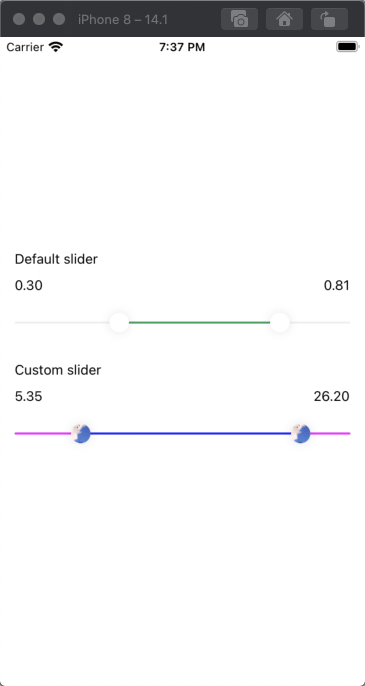
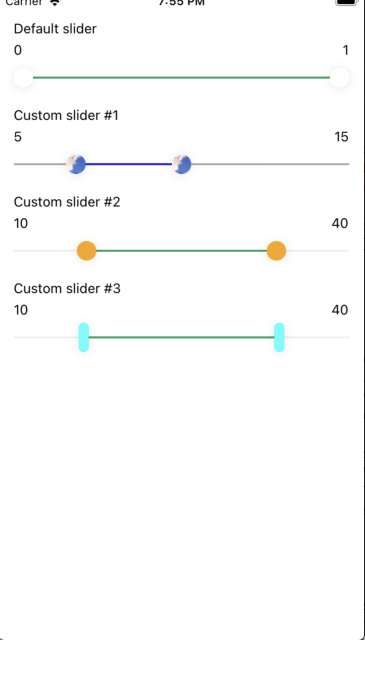
docs: 文档

diff --git a/example/src/App.js b/example/src/App.js
@@ -8,17 +8,52 @@ export default class App extends PureComponent {
     super(props);
 
     this.state = {
-      slider1: {},
-      slider2: {},
+      slider: {
+        minValue: '0',
+        maxValue: '1',
+      },
+      slider1: {
+        minValue: '5',
+        maxValue: '15',
+      },
+      slider2: {
+        minValue: '10',
+        maxValue: '40',
+      },
+      slider3: {
+        minValue: '10',
+        maxValue: '40',
+      },
     };
   }
 
   render() {
-    const { slider1, slider2 } = this.state;
+    const { slider, slider1, slider2, slider3 } = this.state;
     return (
       <View style={styles.container}>
         <View style={styles.box}>
           <Text>Default slider</Text>
+          <View style={styles.valueBox}>
+            <Text>{slider.minValue || ''}</Text>
+            <Text>{slider.maxValue || ''}</Text>
+          </View>
+          <DoubleSlider
+            style={styles.slider}
+            thumbStyle={styles.shadowStyle}
+            minValue={parseInt(slider.minValue, 10)}
+            maxValue={parseInt(slider.maxValue, 10)}
+            onValueChanged={(minValue, maxValue) => {
+              this.setState({
+                slider: {
+                  minValue: Math.min(minValue, maxValue).toFixed(2),
+                  maxValue: Math.max(minValue, maxValue).toFixed(2),
+                },
+              });
+            }}
+          />
+        </View>
+        <View style={styles.box}>
+          <Text>Custom slider #1</Text>
           <View style={styles.valueBox}>
             <Text>{slider1.minValue || ''}</Text>
             <Text>{slider1.maxValue || ''}</Text>
@@ -26,8 +61,13 @@ export default class App extends PureComponent {
           <DoubleSlider
             style={styles.slider}
             thumbStyle={styles.shadowStyle}
-            minValue={0}
-            maxValue={1}
+            minimumValue={0}
+            maximumValue={30}
+            minValue={parseInt(slider1.minValue, 10)}
+            maxValue={parseInt(slider1.maxValue, 10)}
+            thumbImage={require('./images/thumb.jpg')}
+            highlightTrackTintColor="#00f"
+            defaultTrackTintColor="#aaa"
             onValueChanged={(minValue, maxValue) => {
               this.setState({
                 slider1: {
@@ -39,7 +79,7 @@ export default class App extends PureComponent {
           />
         </View>
         <View style={styles.box}>
-          <Text>Custom slider</Text>
+          <Text>Custom slider #2</Text>
           <View style={styles.valueBox}>
             <Text>{slider2.minValue || ''}</Text>
             <Text>{slider2.maxValue || ''}</Text>
@@ -48,14 +88,42 @@ export default class App extends PureComponent {
             style={styles.slider}
             thumbStyle={styles.shadowStyle}
             minimumValue={0}
-            maximumValue={30}
-            maxValue={10}
-            thumbImage={require('./images/thumb.jpg')}
-            highlightTrackTintColor="#00f"
-            defaultTrackTintColor="#f0f"
+            maximumValue={50}
+            minValue={parseInt(slider2.minValue, 10)}
+            maxValue={parseInt(slider2.maxValue, 10)}
+            thumbTintColor="orange"
             onValueChanged={(minValue, maxValue) => {
               this.setState({
                 slider2: {
+                  minValue: Math.min(minValue, maxValue).toFixed(2),
+                  maxValue: Math.max(minValue, maxValue).toFixed(2),
+                },
+              });
+            }}
+          />
+        </View>
+        <View style={styles.box}>
+          <Text>Custom slider #3</Text>
+          <View style={styles.valueBox}>
+            <Text>{slider3.minValue || ''}</Text>
+            <Text>{slider3.maxValue || ''}</Text>
+          </View>
+          <DoubleSlider
+            style={styles.slider}
+            // eslint-disable-next-line react-native/no-inline-styles
+            thumbStyle={{
+              ...styles.shadowStyle,
+              width: 10,
+              height: 30,
+              backgroundColor: '#0ff',
+            }}
+            minimumValue={0}
+            maximumValue={50}
+            minValue={parseInt(slider3.minValue, 10)}
+            maxValue={parseInt(slider3.maxValue, 10)}
+            onValueChanged={(minValue, maxValue) => {
+              this.setState({
+                slider3: {
                   minValue: Math.min(minValue, maxValue).toFixed(2),
                   maxValue: Math.max(minValue, maxValue).toFixed(2),
                 },
@@ -71,20 +139,18 @@ export default class App extends PureComponent {
 const styles = StyleSheet.create({
   container: {
     flex: 1,
-    justifyContent: 'center',
+    paddingVertical: 30,
   },
   box: {
-    marginBottom: 20,
+    marginBottom: 10,
     marginHorizontal: 15,
   },
   valueBox: {
-    marginTop: 10,
+    marginTop: 5,
     flexDirection: 'row',
     justifyContent: 'space-between',
   },
-  slider: {
-    marginTop: 10,
-  },
+  slider: {},
   shadowStyle: {
     shadowColor: '#000',
     shadowOffset: {

diff --git a/README.md b/README.md
@@ -2,6 +2,8 @@
 
 A slider that supports two-way sliding
 
+![screenshots](https://github.com/redye/react-native-double-slider/blob/master/screenshots/1.png)
+
 ## Installation
 
 ```sh
@@ -33,17 +35,17 @@ export default class App extends PureComponent {
         <View style={styles.box}>
           <Text>Default slider</Text>
           <View style={styles.valueBox}>
-            <Text>{slider1.minValue || ''}</Text>
-            <Text>{slider1.maxValue || ''}</Text>
+            <Text>{slider.minValue || ''}</Text>
+            <Text>{slider.maxValue || ''}</Text>
           </View>
           <DoubleSlider
             style={styles.slider}
             thumbStyle={styles.shadowStyle}
-            minValue={0}
-            maxValue={1}
+            minValue={parseInt(slider.minValue, 10)}
+            maxValue={parseInt(slider.maxValue, 10)}
             onValueChanged={(minValue, maxValue) => {
               this.setState({
-                slider1: {
+                slider: {
                   minValue: Math.min(minValue, maxValue).toFixed(2),
                   maxValue: Math.max(minValue, maxValue).toFixed(2),
                 },
@@ -59,20 +61,18 @@ export default class App extends PureComponent {
 const styles = StyleSheet.create({
   container: {
     flex: 1,
-    justifyContent: 'center',
+    paddingVertical: 30,
   },
   box: {
-    marginBottom: 20,
+    marginBottom: 10,
     marginHorizontal: 15,
   },
   valueBox: {
-    marginTop: 10,
+    marginTop: 5,
     flexDirection: 'row',
     justifyContent: 'space-between',
   },
-  slider: {
-    marginTop: 10,
-  },
+  slider: {},
   shadowStyle: {
     shadowColor: '#000',
     shadowOffset: {
@@ -87,9 +87,31 @@ const styles = StyleSheet.create({
 
 ```
 
-## Contributing
+## Props
 
-See the [contributing guide](CONTRIBUTING.md) to learn how to contribute to the repository and the development workflow.
+| Prop | Type | Optional | Default | Description |
+| :--- | :--- | :--- | :--- | :--- |
+| minValue | number | true | 0 | 当前最小值 |
+| maxValue | number | true | 1 | 当前最大值 |
+| disabled | bool | true | false | 是否可滑动 |
+| minimumValue | number | true | 0 | 可滑动的最小值 |
+| maximumValue | number | true | 0 | 可滑动的最大值 |
+| step | number | true | 0 | step |
+| defaultTrackTintColor | string | true | `#EEEEEE` | 默认颜色 |
+| highlightTrackTintColor | string | true | `#15A25F` | 高亮颜色 |
+| thumbTintColor | string | true | #15A25F | 滑块颜色 |
+| thumbTouchSize | object | true | `{width: 40, height: 40}` |  滑块大小  |
+| onValueChanged | function | true | -  | 值发生改变时的回调 |
+| onSlidingStart | function | true |  -  | 开始滑动时的回调 |
+| onSlidingComplete | function | true | - | 滑动结束时的回调 |
+| style | style | true | - | 样式 |
+| trackStyle | style | true | - | 高亮部分的样式 |
+| thumbStyle | style | true | - | 滑块的样式 |
+| thumbImage | source | true | - | 滑块的图片 |
+| animateTransitions | bool | true | false | 动画 |
+| animationType | string | true | `timing` | 动画方式：`timing`、`spring` 中的一种 |
+| animationConfig | object | true | - | 动画配置 |
+
 
 ## License
 
